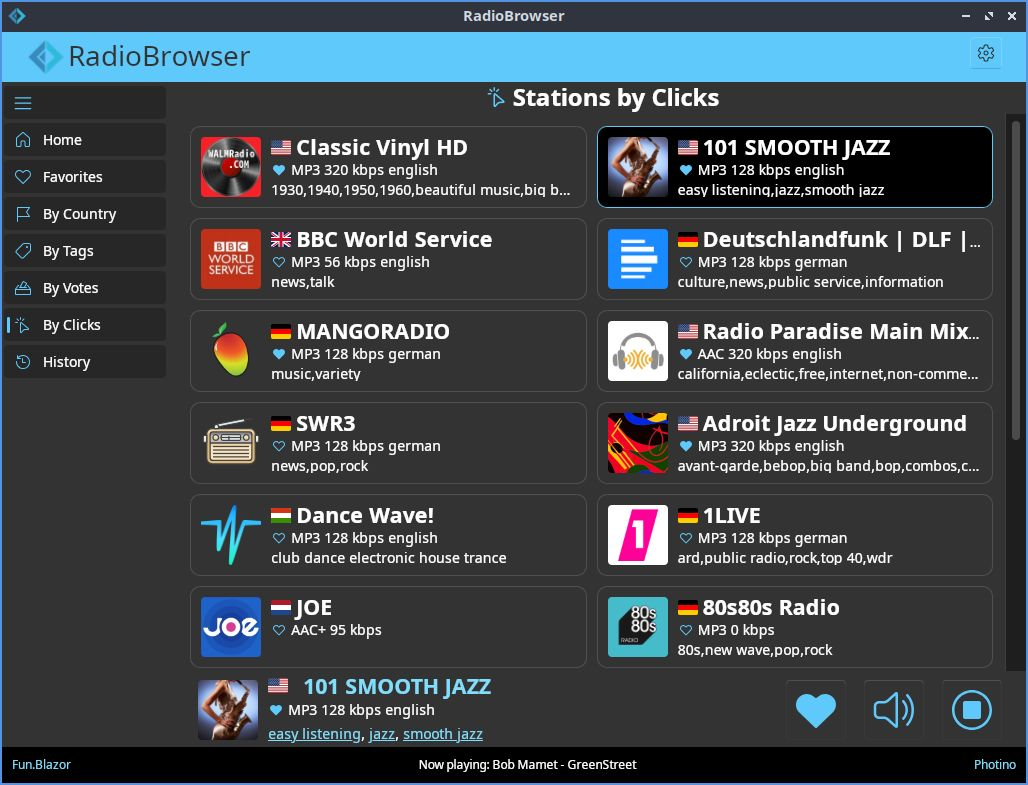
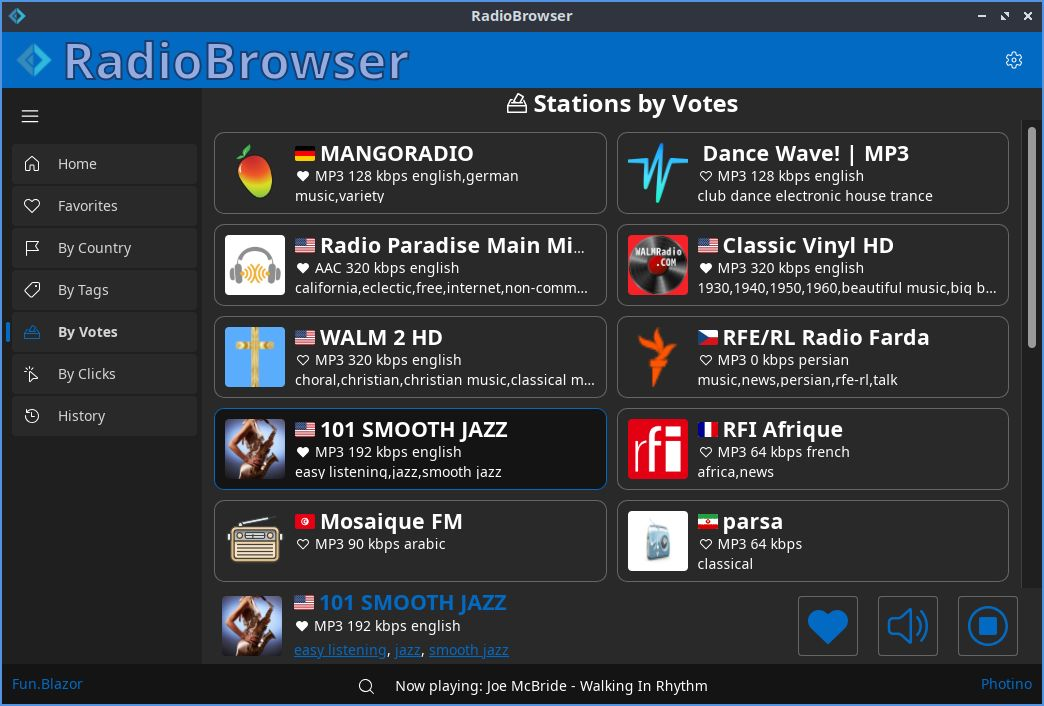
Updated the README file and the application screenshot

diff --git a/README.md b/README.md
@@ -1,62 +1,62 @@
 # RadioBrowser Player
 
-A lightweight, cross-platform desktop radio player built with F# and .NET 10.0. Discover and listen to thousands of internet radio stations, manage your favorites, and never lose track of what you're listening to.
+A desktop internet radio player built with F# and .NET 10. Browse stations from the [RadioBrowser](https://www.radio-browser.info/) directory, save favorites, and keep track of what you have listened to.
 
-[![.NET 10.0](https://img.shields.io/badge/.NET-10.0-512BD4?logo=dotnet)](https://dotnet.microsoft.com/)
-[![F#](https://img.shields.io/badge/F%23-10.0-378BBA?logo=fsharp)](https://fsharp.org/)
+[![.NET 10](https://img.shields.io/badge/.NET-10-512BD4?logo=dotnet)](https://dotnet.microsoft.com/)
+[![F#](https://img.shields.io/badge/F%23-10-378BBA?logo=fsharp)](https://fsharp.org/)
 [![License: MIT](https://img.shields.io/badge/License-MIT-yellow.svg)](https://opensource.org/licenses/MIT)
 
-![Screenshot of the script UI](/img/radioBrowser.Photino.jpg)
+![RadioBrowser Player screenshot](./img/radioBrowser.Photino.jpg)
 
-## ✨ Features
+## Features
 
-*   **Global Radio Discovery**: Search for radio stations by name, country, or tag using the integrated [RadioBrowser](https://www.radio-browser.info/) API.
-*   **Smart Favorites**: Add stations to your personal favorites list for instant access.
-*   **Now Playing**: See the current track title (via Icecast metadata) for supported stations.
-*   **Listening History**: Automatically keeps a log of all stations you've played.
-*   **Modern, Native UI**: A clean and responsive user interface built with Blazor and Fluent UI, running in a lightweight native window via Photino.
-*   **Lightweight & Fast**: No heavy Electron shell. The app is a small, fast .NET executable.
-*   **Cross-Platform**: Runs on Windows and Linux (maybe on macOS too, but I haven't had a chance to test it).
+- Browse popular stations by votes or clicks, or explore stations by country and tag.
+- Search stations by name and filter the station lists.
+- Play internet radio streams with playback and volume controls.
+- Add stations to favorites and review listening history.
+- View track metadata when it is provided by the station.
+- Search for and download tracks through the available downloader plugin.
+- Switch between light and dark themes and choose an accent color.
 
-## 🛠 Built With
+Favorites and listening history are stored locally in a LiteDB database.
 
-*   **[.NET 10.0](https://dotnet.microsoft.com/download/dotnet/10.0)**: The core runtime and framework.
-*   **[F#](https://fsharp.org/)**: The primary programming language.
-*   **[Photino.Blazor](https://github.com/tryphotino/photino.Blazor)**: A lightweight native window to host the Blazor UI.
-*   **[Fun.Blazor](https://github.com/slaveOftime/Fun.Blazor)**: A famous F#-first DSL for building Blazor UI components.
-*   **[fluentui-blazor](https://github.com/microsoft/fluentui-blazor)**: Microsoft's official Fluent UI Blazor components for a modern design.
-*   **[LiteDB](https://www.litedb.org/)**: A serverless, embedded .NET NoSQL database for storing favorites.
+## Installation
 
-### Installation
+Download the latest release from the [Releases](https://github.com/poimenov/RadioBrowser/releases) page, choose the archive for your platform, and extract it.
 
-1.  **Download the latest release** from the [Releases](https://github.com/poimenov/RadioBrowser/releases) page. If you don't have [.NET 10.0 Runtime](https://dotnet.microsoft.com/download/dotnet/10.0) runtime installed, use self-contained version
+- **Self-contained** archives include the .NET runtime.
+- **Framework-dependent** archives require the .NET 10 runtime to be installed.
 
-2. Unpack and run it.
+Keep the extracted files together when running the app; the release includes a `Plugins` folder used by the downloader.
 
+Prebuilt release packages are currently produced for Windows x64 and Linux x64. macOS is not included in the release build script.
 
-### From Source Code
-#### Prerequisites
+## Build and run from source
 
-*   [.NET 10.0 SDK](https://dotnet.microsoft.com/download/dotnet/10.0)
+### Prerequisites
 
-#### Build Steps
+- [.NET 10 SDK](https://dotnet.microsoft.com/download/dotnet/10.0)
 
-1.  **Clone the repository**:
-    ```bash
-    git clone https://github.com/poimenov/RadioBrowser.git
-    cd RadioBrowser
-    ```
+### Commands
 
-2.  **Restore dependencies**:
-    ```bash
-    dotnet restore
-    ```
+From the repository root:
 
-3.  **Build the project**:
-    ```bash
-    dotnet build --configuration Release
-    ```
+```bash
+dotnet restore RadioBrowser.slnx
+dotnet build RadioBrowser.slnx --configuration Release
+dotnet run --project src/RadioBrowser/RadioBrowser.fsproj
+```
 
----
+Run the test suite with:
 
-**Enjoy the tunes!** 🎵
+```bash
+dotnet test tests/RadioBrowser.Tests/RadioBrowser.Tests.fsproj
+```
+
+To create release archives for Windows x64 and Linux x64, run:
+
+```bash
+dotnet fsi publish.fsx
+```
+
+The publishing script creates framework-dependent and self-contained archives under `artifacts/`. It removes existing `bin/`, `obj/`, and `artifacts/` directories before building.
